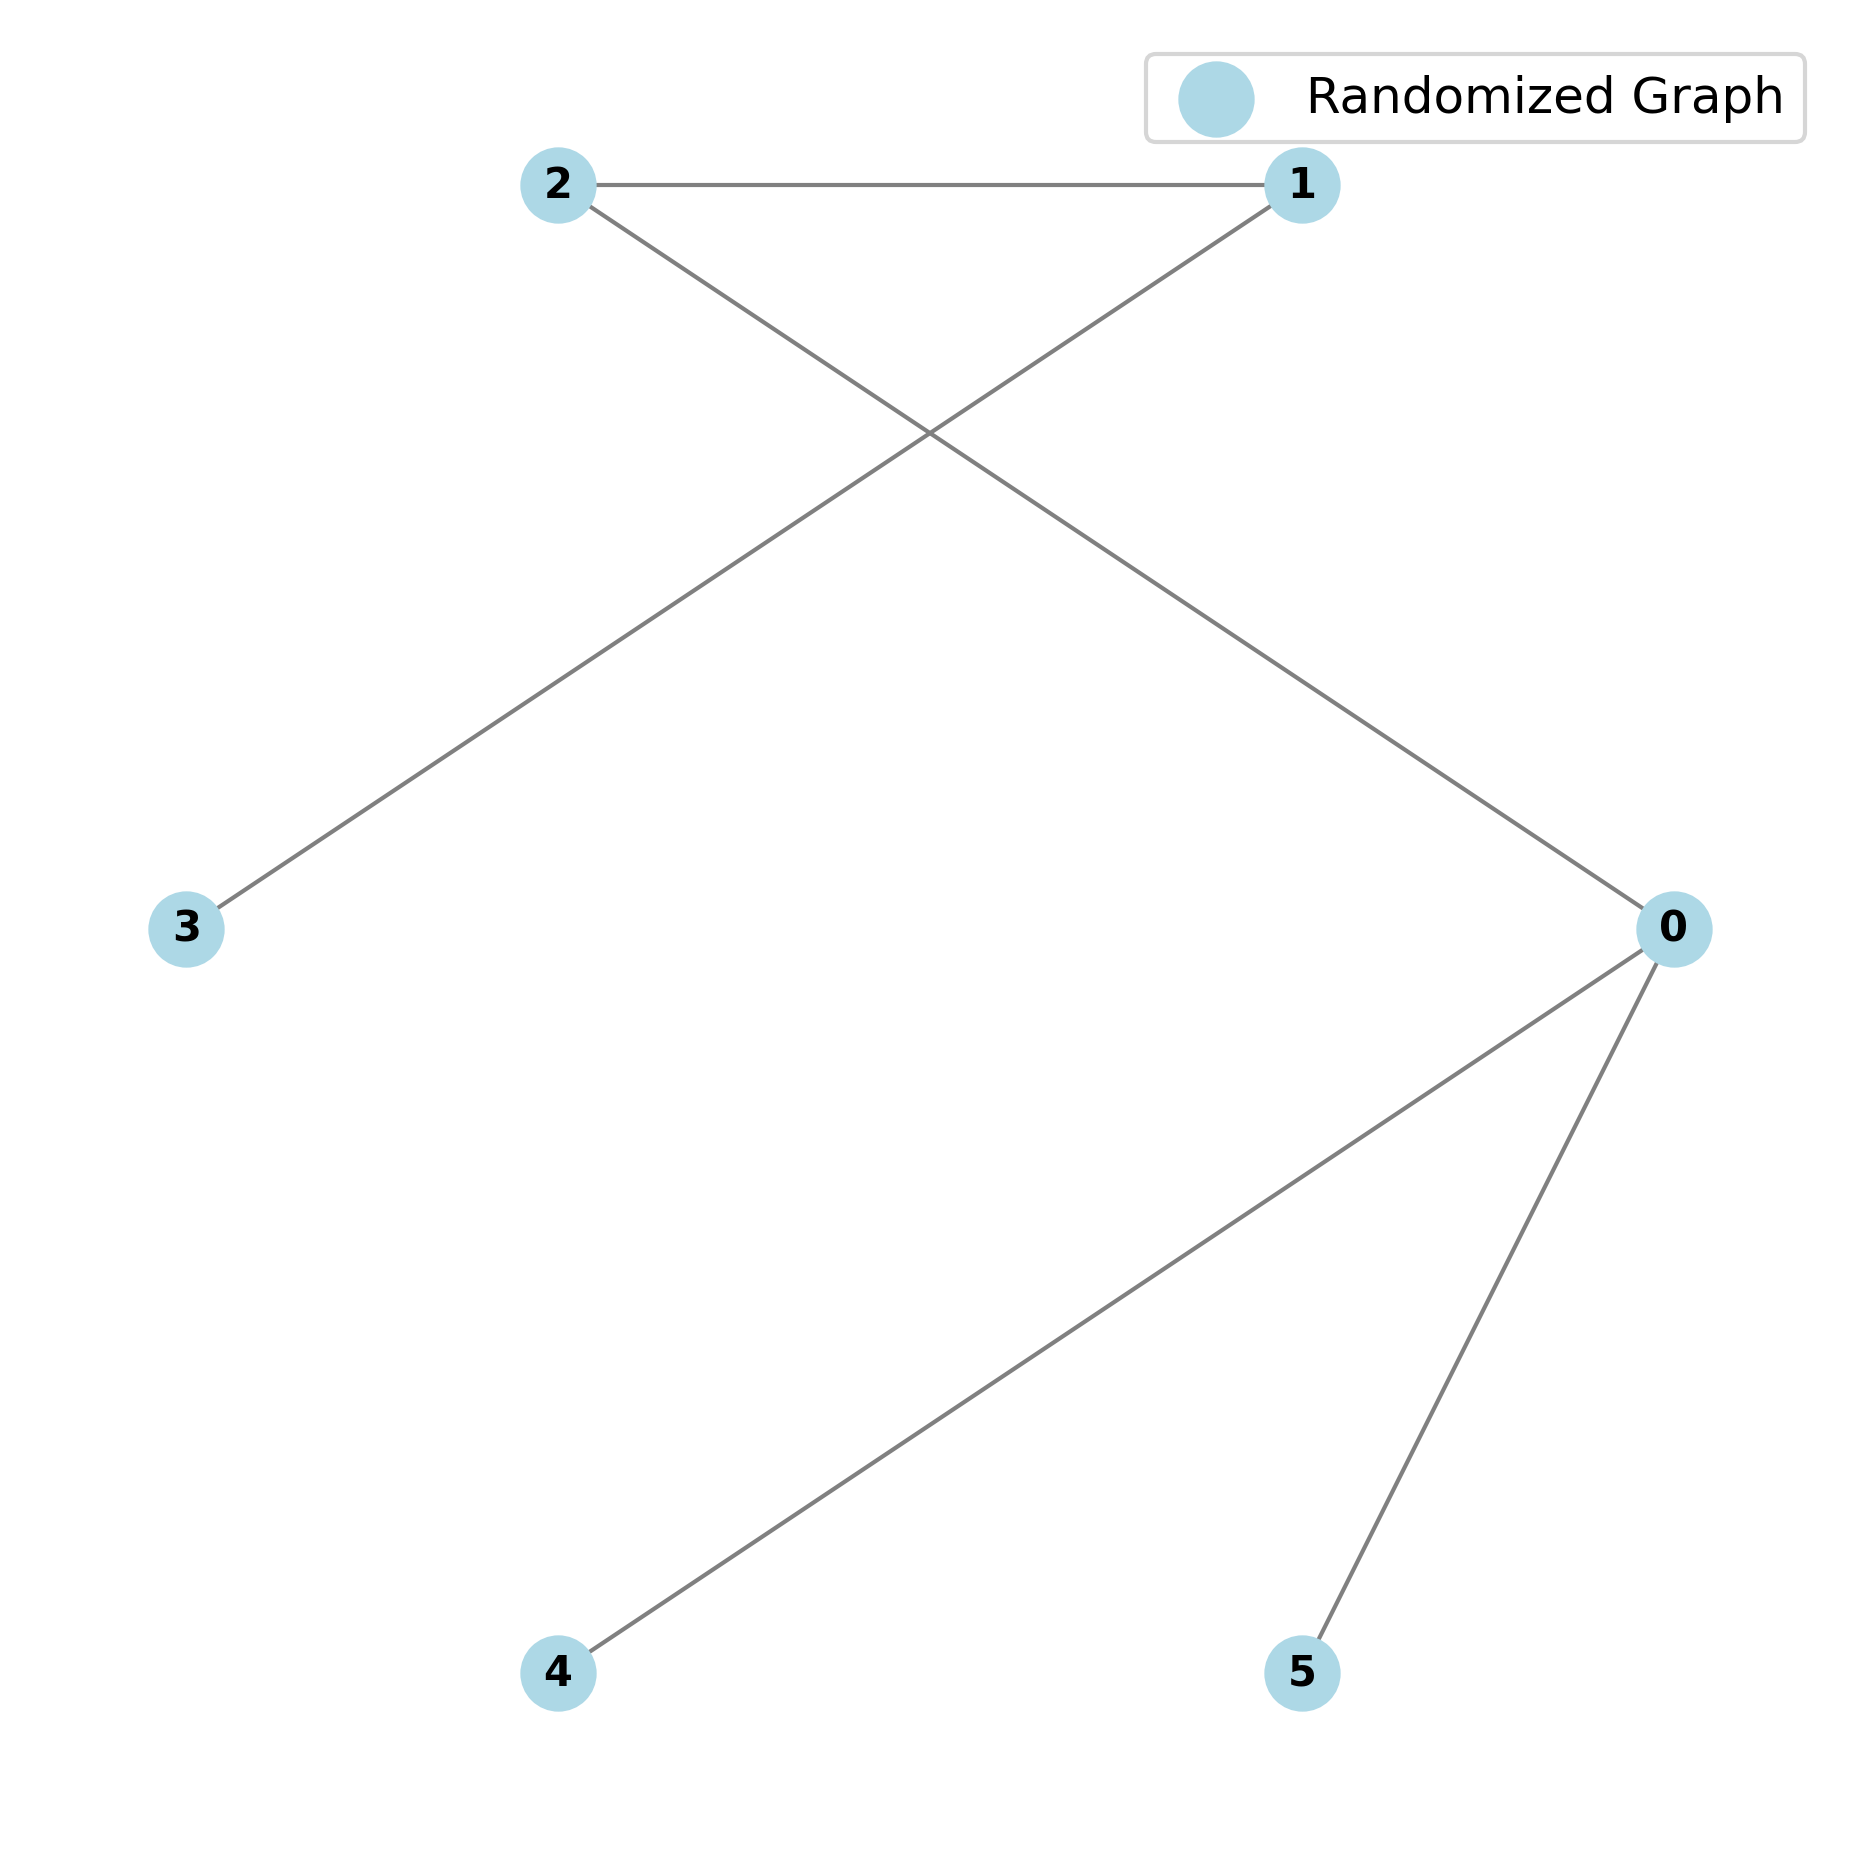
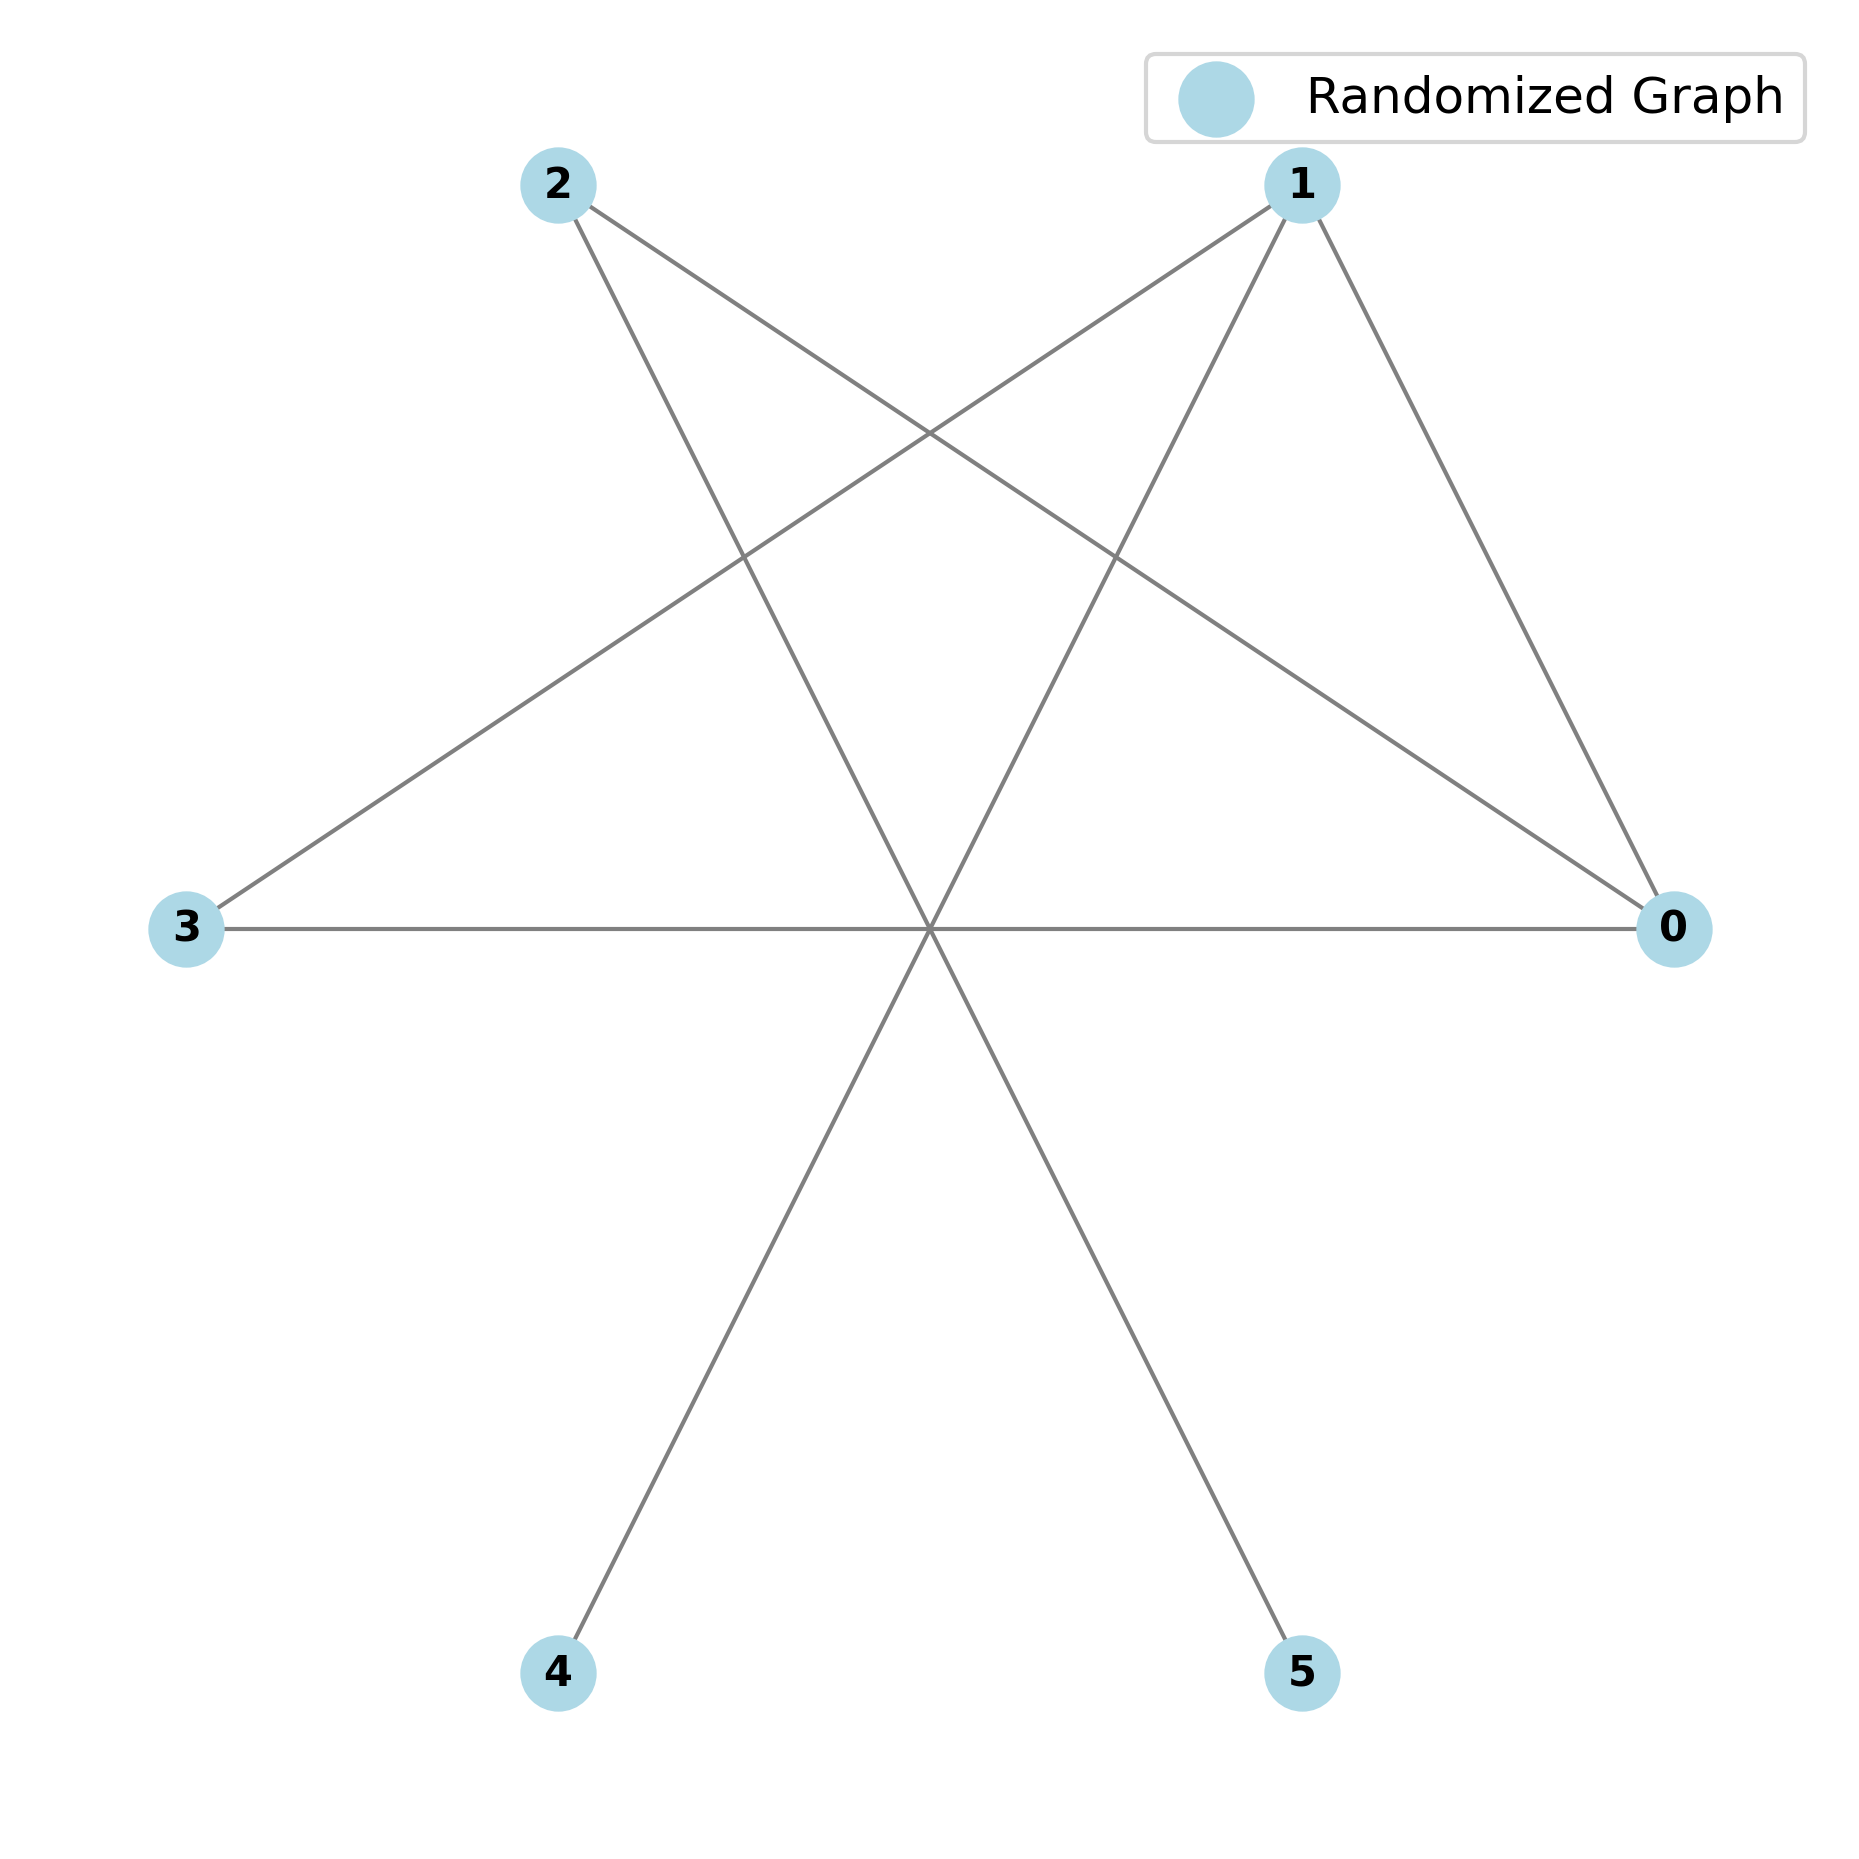
Checking if the graph is a graphic sequence, edge swapping, largest connected component

Changed region(s): [[0.468, 0.468, 0.5304, 0.5304], [0.8424, 0.4992, 0.8736, 0.5304], [0.5928, 0.6864, 0.624, 0.7176]]

diff --git a/zestaw02.py b/zestaw02.py
@@ -1,97 +1,5 @@
 from MyGraph import *
 from DrawGraph import * 
-import networkx as nx
-import random
-
-
-def is_graphic_sequence(sequence: list[int]) -> bool:
-    """
-    Checks if the given degree sequence is graphic
-    (if there exists a simple graph with such vertex degrees).
-    """
-    sequence = sorted(sequence, reverse=True)
-    while sequence and sequence[0] > 0:
-        if sum(sequence) % 2 == 1 or sequence[0] >= len(sequence):
-            return False
-        first = sequence.pop(0)
-        for i in range(first):
-            sequence[i] -= 1
-            if sequence[i] < 0:
-                return False
-        sequence.sort(reverse=True)
-    return True
-
-
-def construct_graph_from_sequence(sequence: list[int]) -> AdjacencyList:
-    """
-    Creates a simple graph from a graphic sequence.
-    """
-    if not is_graphic_sequence(sequence):
-        raise ValueError("The given sequence is not graphic")
-    
-    print("· The given sequence is graphic")
-
-    size = len(sequence)
-    data = [[] for _ in range(size)]
-    nodes = sorted([(degree, i) for i, degree in enumerate(sequence)], reverse=True)
-    
-    while nodes and nodes[0][0] > 0:
-        degree, node = nodes.pop(0)
-        nodes.sort(reverse=True)
-        for i in range(degree):
-            neighbor_degree, neighbor = nodes[i]
-            data[node].append(neighbor)
-            data[neighbor].append(node)
-            nodes[i] = (neighbor_degree - 1, neighbor)
-        nodes.sort(reverse=True)
-    
-    return AdjacencyList(size, data, sum(sequence) // 2)
-
-
-def randomize_graph(graph: AdjacencyList, iterations: int = 100):
-    """
-    Randomizes the graph by swapping random pairs of edges.
-    """
-    edges = [(u, v) for u in range(graph.size) for v in graph.data[u] if u < v]
-    for _ in range(iterations):
-        if len(edges) < 2:
-            break
-        (a, b), (c, d) = random.sample(edges, 2)
-        if b != c and d not in graph.data[a] and b not in graph.data[d]:
-            graph.data[a].remove(b)
-            graph.data[b].remove(a)
-            graph.data[c].remove(d)
-            graph.data[d].remove(c)
-            graph.data[a].append(d)
-            graph.data[d].append(a)
-            graph.data[c].append(b)
-            graph.data[b].append(c)
-            edges.remove((a, b))
-            edges.remove((c, d))
-            edges.append((a, d))
-            edges.append((c, b))
-
-
-def largest_connected_component(graph: AdjacencyList):
-    """
-    Finds the largest connected component in the graph.
-    """
-    G = nx.Graph()
-    for node, neighbors in enumerate(graph.data):
-        for neighbor in neighbors:
-            G.add_edge(node, neighbor)
-    
-    largest_component = max(nx.connected_components(G), key=len)
-    subgraph = G.subgraph(largest_component)
-    
-    new_data = [[] for _ in range(len(largest_component))]
-    mapping = {node: i for i, node in enumerate(sorted(largest_component))}
-    for node in largest_component:
-        for neighbor in G[node]:
-            new_data[mapping[node]].append(mapping[neighbor])
-    
-    return AdjacencyList(len(largest_component), new_data, subgraph.number_of_edges())
-
 
 if __name__ == "__main__":
     # Zadanie 1
@@ -113,7 +21,7 @@ if __name__ == "__main__":
         print("The given sequence is not graphic")
 
     # Zadanie 2
-    # zamienia losowo wybraną parę krawędzi: ab i cd na parę ad i bc.
+    # Zamień losowo wybraną parę krawędzi: ab i cd na parę ad i bc.
     if graph is not None:
         randomize_graph(graph, 50)
         print("Graph after randomization:")

diff --git a/MyGraph.py b/MyGraph.py
@@ -2,7 +2,10 @@ import random
 import numpy as np
 from typing import Union, List 
 from enum import Enum, auto
+import networkx as nx
+import random
 
+# Zestaw 1
 
 class GraphRepresentationType(Enum):
     """Typy reprezentacji grafu:
@@ -164,3 +167,78 @@ def random_graph_by_probability(size: int, probability: float) -> AdjacencyList:
             data[n2].append(n1)
 
     return AdjacencyList(size, data, edges)
+
+# Zestaw 2
+
+def is_graphic_sequence(sequence: list[int]) -> bool:
+    sequence = sorted(sequence, reverse=True)
+    while sequence and sequence[0] > 0:
+        if sum(sequence) % 2 == 1 or sequence[0] >= len(sequence):
+            return False
+        first = sequence.pop(0)
+        for i in range(first):
+            sequence[i] -= 1
+            if sequence[i] < 0:
+                return False
+        sequence.sort(reverse=True)
+    return True
+
+def construct_graph_from_sequence(sequence: list[int]) -> AdjacencyList:
+    if not is_graphic_sequence(sequence):
+        raise ValueError("· The given sequence is not graphic")
+    
+    print("· The given sequence is graphic")
+
+    size = len(sequence)
+    data = [[] for _ in range(size)]
+    nodes = sorted([(degree, i) for i, degree in enumerate(sequence)], reverse=True)
+    
+    while nodes and nodes[0][0] > 0:
+        degree, node = nodes.pop(0)
+        nodes.sort(reverse=True)
+        for i in range(degree):
+            neighbor_degree, neighbor = nodes[i]
+            data[node].append(neighbor)
+            data[neighbor].append(node)
+            nodes[i] = (neighbor_degree - 1, neighbor)
+        nodes.sort(reverse=True)
+    
+    return AdjacencyList(size, data, sum(sequence) // 2)
+
+
+def randomize_graph(graph: AdjacencyList, iterations: int = 100):
+    edges = [(u, v) for u in range(graph.size) for v in graph.data[u] if u < v]
+    for _ in range(iterations):
+        if len(edges) < 2:
+            break
+        (a, b), (c, d) = random.sample(edges, 2)
+        if b != c and d not in graph.data[a] and b not in graph.data[d]:
+            graph.data[a].remove(b)
+            graph.data[b].remove(a)
+            graph.data[c].remove(d)
+            graph.data[d].remove(c)
+            graph.data[a].append(d)
+            graph.data[d].append(a)
+            graph.data[c].append(b)
+            graph.data[b].append(c)
+            edges.remove((a, b))
+            edges.remove((c, d))
+            edges.append((a, d))
+            edges.append((c, b))
+
+def largest_connected_component(graph: AdjacencyList):
+    G = nx.Graph()
+    for node, neighbors in enumerate(graph.data):
+        for neighbor in neighbors:
+            G.add_edge(node, neighbor)
+    
+    largest_component = max(nx.connected_components(G), key=len)
+    subgraph = G.subgraph(largest_component)
+    
+    new_data = [[] for _ in range(len(largest_component))]
+    mapping = {node: i for i, node in enumerate(sorted(largest_component))}
+    for node in largest_component:
+        for neighbor in G[node]:
+            new_data[mapping[node]].append(mapping[neighbor])
+    
+    return AdjacencyList(len(largest_component), new_data, subgraph.number_of_edges())
